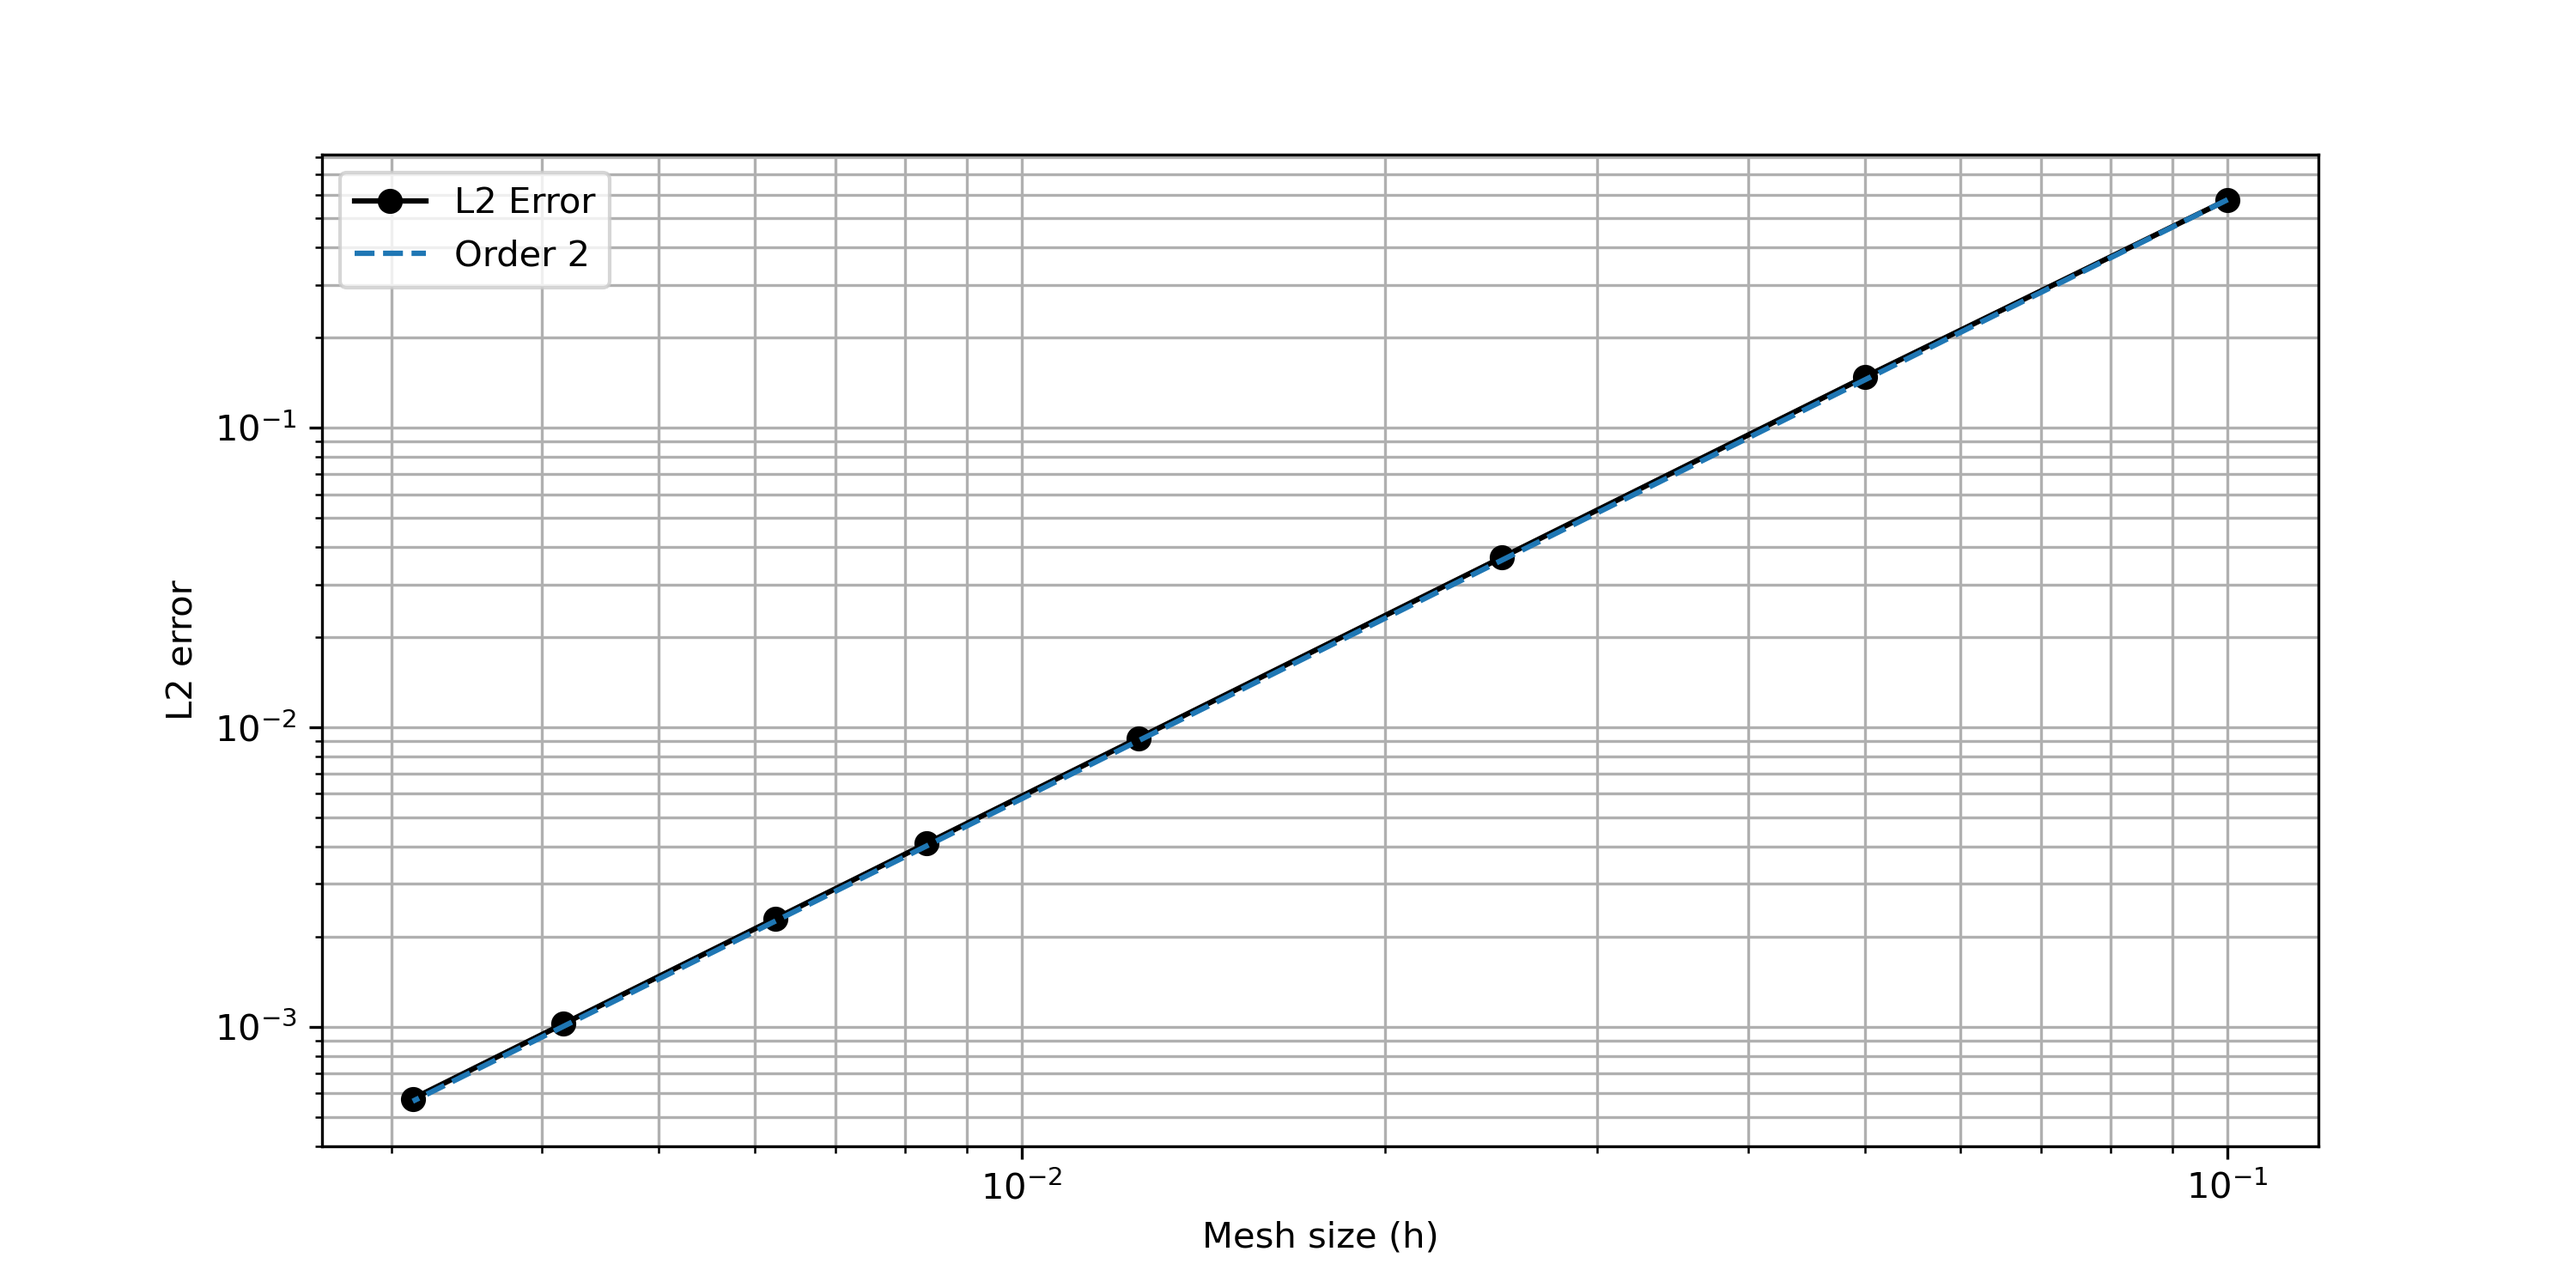
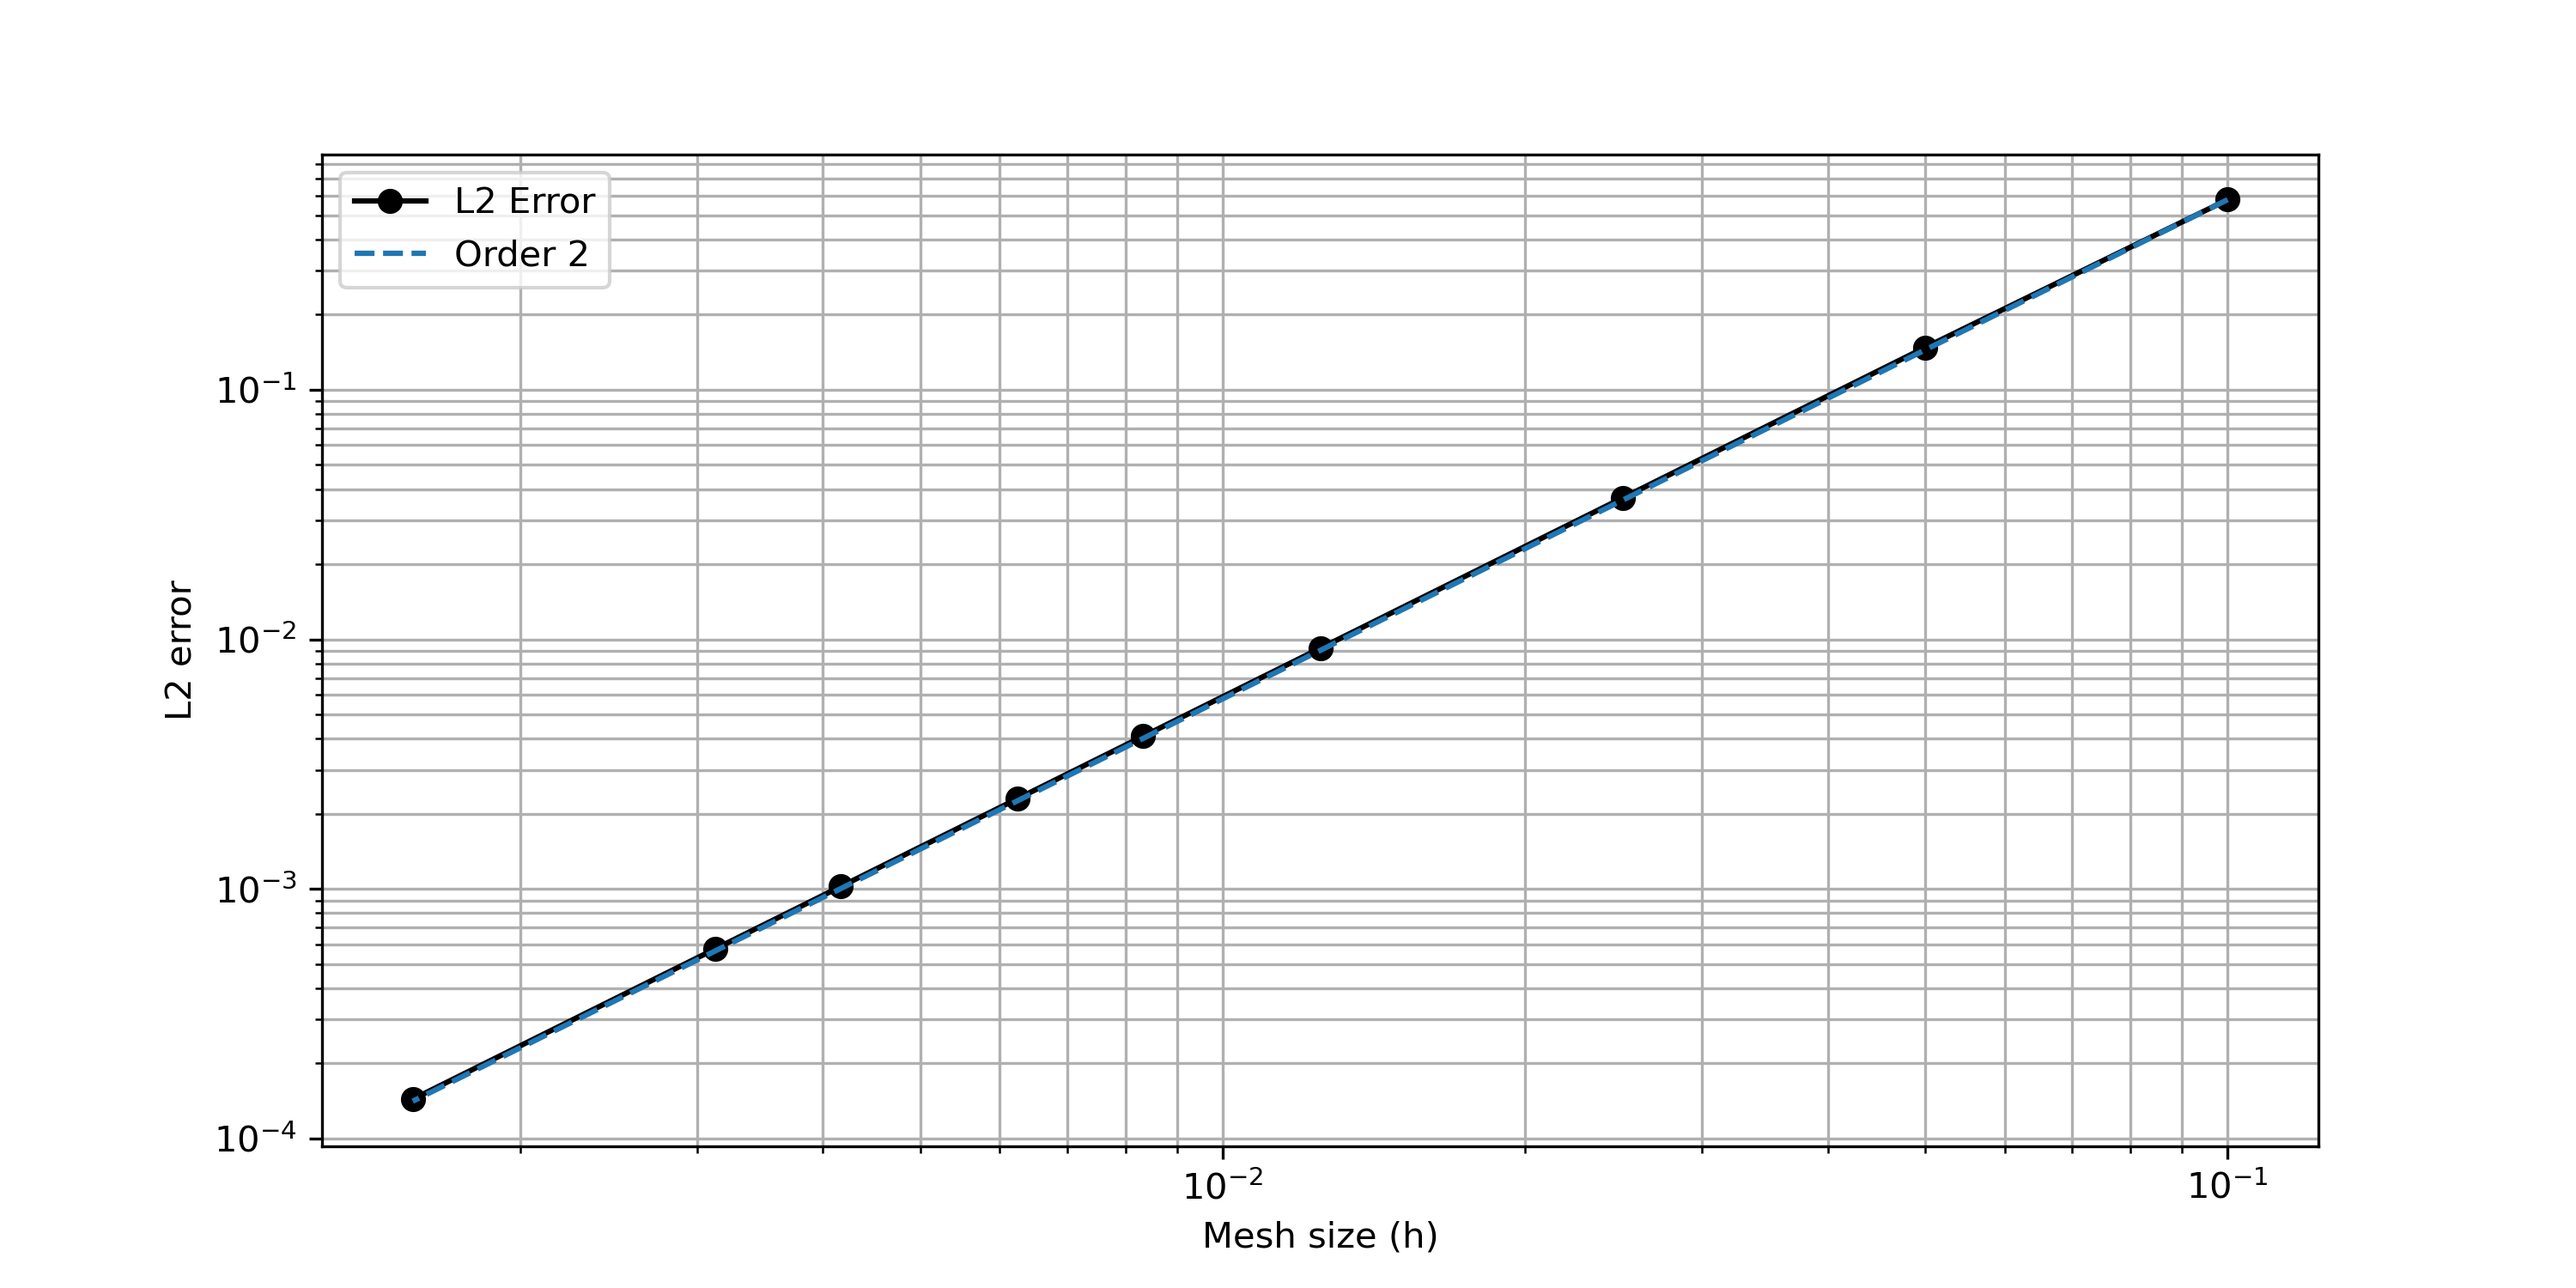
save

Changed region(s): [[0.093, 0.4907, 0.899, 0.8893], [0.093, 0.1227, 0.899, 0.46], [0.124, 0.1227, 0.155, 0.1533]]

diff --git a/convergence_DirBC_f0paper_distr.py b/convergence_DirBC_f0paper_distr.py
@@ -37,7 +37,7 @@ material_properties = {
     'c2': 0,
 }
 l2_err_plot = []
-grid_sizes = [10, 20, 40, 80, 120, 160, 240, 320, 800]
+grid_sizes = [10, 20, 40, 80, 120, 160, 240, 320, 640]
 grid_sizes_run = []
 for i, grid_size in zip(range(len(grid_sizes)), grid_sizes):
     grid_sizes_run.append(grid_size)
@@ -71,7 +71,6 @@ for i, grid_size in zip(range(len(grid_sizes)), grid_sizes):
         h_min = min(h_min)  
     h_min = MPI.COMM_WORLD.bcast(h_min, root=0) #Broadcast to every processor the global minimum of h.
 
-    # Geometrical regions  
     def top(x):
         return np.isclose(x[1], geometry_parameters["Ly"])
     def bottom(x):
@@ -81,7 +80,6 @@ for i, grid_size in zip(range(len(grid_sizes)), grid_sizes):
     def left (x):
         return np.isclose(x[0], 0.)
 
-    # Geometrical sets
     top_facets = dolfinx.mesh.locate_entities_boundary(mesh, fdim, top)
     bottom_facets = dolfinx.mesh.locate_entities_boundary(mesh, fdim, bottom)
     right_facets = dolfinx.mesh.locate_entities_boundary(mesh, fdim, right)
@@ -103,7 +101,6 @@ for i, grid_size in zip(range(len(grid_sizes)), grid_sizes):
                             tagged_facets[tagged_facets_sorted], 
                             tag_values[tagged_facets_sorted])
 
-    # Domain and subdomain measures
     # dx = ufl.Measure("dx", domain=mesh, metadata={"quadrature_degree": 4})
     dx = ufl.Measure("dx", domain=mesh)                         # Domain measure
     ds = ufl.Measure("ds", domain=mesh, subdomain_data=mt)      # External Boundary measure
@@ -264,50 +261,14 @@ for i, grid_size in zip(range(len(grid_sizes)), grid_sizes):
         a_values[2*i + 1] = ay
     a.x.scatter_forward()
 
-    # Compute initial force vector
-    # F_init = dolfinx.fem.petsc.assemble_vector(F_form)
-    # F_init.ghostUpdate(addv=PETSc.InsertMode.ADD, mode=PETSc.ScatterMode.REVERSE)
-    # F_init.ghostUpdate(addv=PETSc.InsertMode.INSERT, mode=PETSc.ScatterMode.FORWARD)
-    # M_lumped = dolfinx.fem.petsc.assemble_vector(M_lumped_form)
-    # M_lumped.ghostUpdate(addv=PETSc.InsertMode.ADD, mode=PETSc.ScatterMode.REVERSE)
-    # M_lumped.ghostUpdate(addv=PETSc.InsertMode.INSERT, mode=PETSc.ScatterMode.FORWARD)
-
-    # # Assemble the stiffness term K*u_n (part of the residual)
-    # K_u_form = dolfinx.fem.form(ufl.replace(P_du, {u: u}))  # This gets K*u_n
-    # K_u = dolfinx.fem.petsc.assemble_vector(K_u_form)
-    # K_u.ghostUpdate(addv=PETSc.InsertMode.ADD, mode=PETSc.ScatterMode.REVERSE)
-    # K_u.ghostUpdate(addv=PETSc.InsertMode.INSERT, mode=PETSc.ScatterMode.FORWARD)
-
-    # # Assemble the external force vector
-    # F_ext_form = dolfinx.fem.form(-ufl.derivative(external_work, u, u_test))
-    # F_ext = dolfinx.fem.petsc.assemble_vector(F_ext_form)
-    # F_ext.ghostUpdate(addv=PETSc.InsertMode.ADD, mode=PETSc.ScatterMode.REVERSE)
-    # F_ext.ghostUpdate(addv=PETSc.InsertMode.INSERT, mode=PETSc.ScatterMode.FORWARD)
-
-    # # Calculate F_n - K*u_n
-    # F_rhs = F_ext.copy()
-    # F_rhs.axpy(-1.0, K_u)  # F_rhs = F_ext - K_u
-
-    # # Initial acceleration = M^(-1) * (F_n - K*u_n)
-    # with F_rhs.localForm() as F_local, M_lumped.localForm() as M_local, a.x.petsc_vec.localForm() as a_local:
-    #     a_local.pointwiseDivide(F_local, M_local)
-
-    # dolfinx.fem.set_bc(a.x.array, bcs_a)  # Enforce BCs
-    # a.x.scatter_forward()
-
-    # v.x.scatter_forward()
+   
     stime = time.time()
     step = 0
     snapshot_interval = 1
 
-    #----------
-    # Main loop
-    #----------
     # setup postprocessing:
     error_squared_total_sum = 0
     u_squared_total_sum = 0
-
-
 
     def u_exact_x(x, y, t):
         return np.sin(4.*np.pi*x) * np.sin(2.*np.pi*y) * np.sin(4.*np.pi*(t-0.1))
@@ -316,8 +277,7 @@ for i, grid_size in zip(range(len(grid_sizes)), grid_sizes):
         return np.sin(4.*np.pi*x) * np.sin(2.*np.pi*y) * np.sin(4.*np.pi*(t+0.3))
 
     dof_coords = V_t.tabulate_dof_coordinates()[:, :2]
-    # Only drop z-dimension
-    node_coords = dof_coords[:, :2]  # shape: (1681, 2)
+    node_coords = dof_coords[:, :2]  # dropping z dim 
 
     if comm.rank == 0:
         pbar = tqdm(total=total_time, desc="Integrating")
